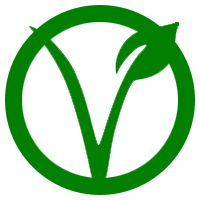
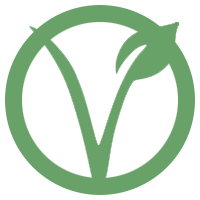
Raderat överflödiga filer + ändrat färg på allergi-ikonerna

diff --git a/src/components/OrderingViewFrontPage.vue b/src/components/OrderingViewFrontPage.vue
@@ -104,7 +104,7 @@ export default {
   /* font-family: 'Luckiest Guy', sans-serif; */
   /* text-transform: uppercase; */
   text-align: center;
-  font-size: 13vmin;
+  font-size: 8vw;
   color: #ed6381; /*mörkrosa*/
   /* #DF532F; - orange*/
   /* #66d9ff; - ljusblå*/
@@ -124,12 +124,6 @@ export default {
   }
 } */
 
-@media screen and (max-width:1090px){
-  .welcome{
-    font-size: 3em;
-  }
-}
-
 /*------------------ CSS för ipad/mobiler-isch ------------*/
 @media screen and (max-width:1024px){
   .welcome{ /* = Frontpagens titel*/
@@ -145,9 +139,9 @@ export default {
 }
 
 @media screen and (max-width:650px){
-  /* .welcome{
+   .welcome{
     font-size:3em;
-  } */
+  }
 
   #favoritesButton, #createBurgerButton{
     width:4em;
